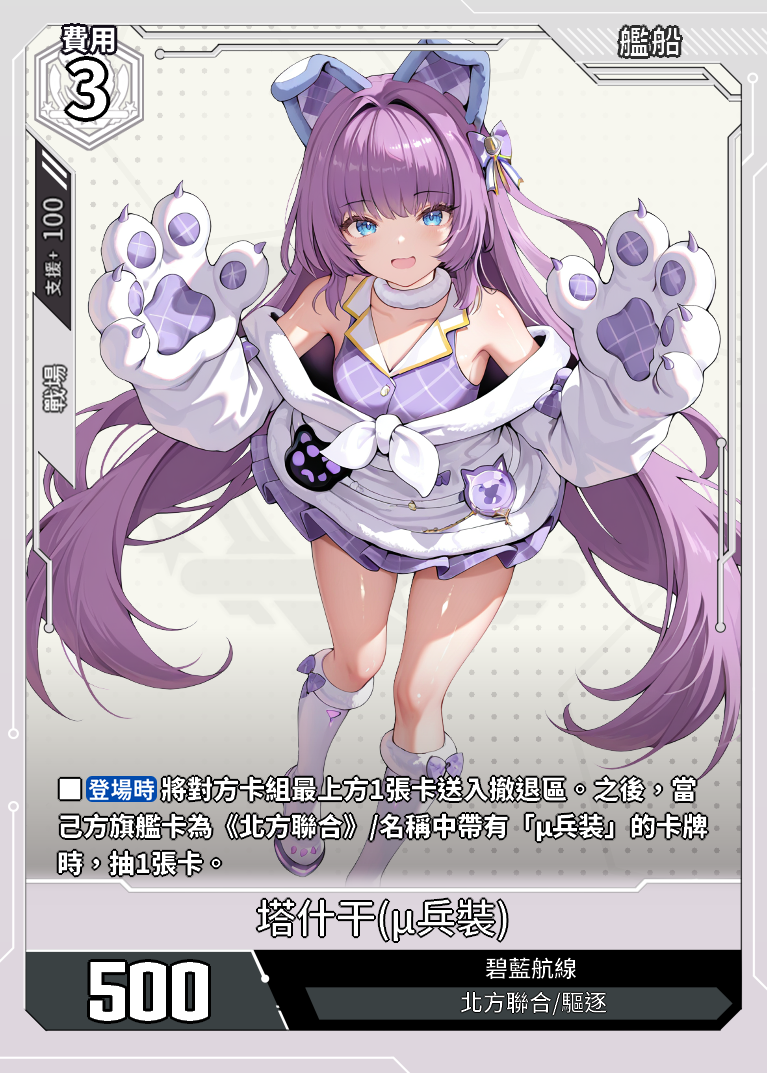
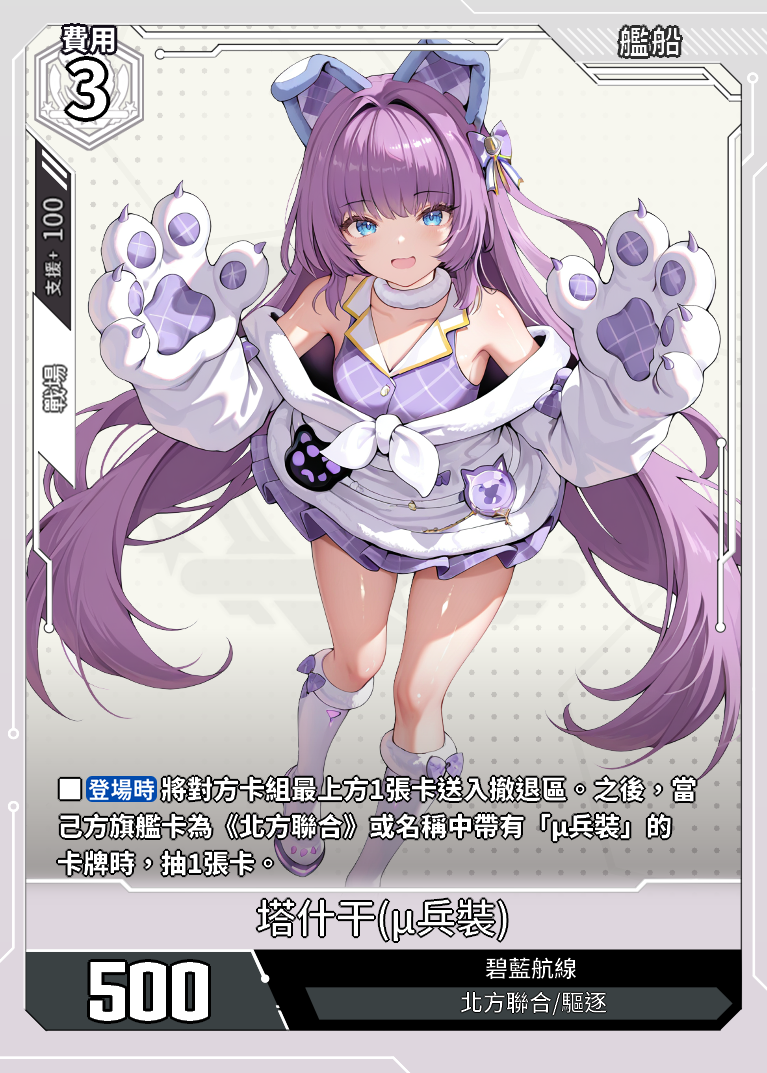
修正塔什干u

diff --git a/data.js b/data.js
@@ -25362,7 +25362,7 @@ const cards = [
             "支援範圍": "戰場",
             "支援值": "100"
         },
-        "card_effect": "■【登場時】將對方卡組最上方1張卡送入撤退區。之後，當己方旗艦卡為《北方聯合》/名稱中帶有「μ兵装」的卡牌時，抽1張卡。",
+        "card_effect": "■【登場時】將對方卡組最上方1張卡送入撤退區。之後，當己方旗艦卡為《北方聯合》或名稱中帶有「μ兵裝」的卡牌時，抽1張卡。",
         "acquisition_method": "CE02-早期測試"
     },
 	{
